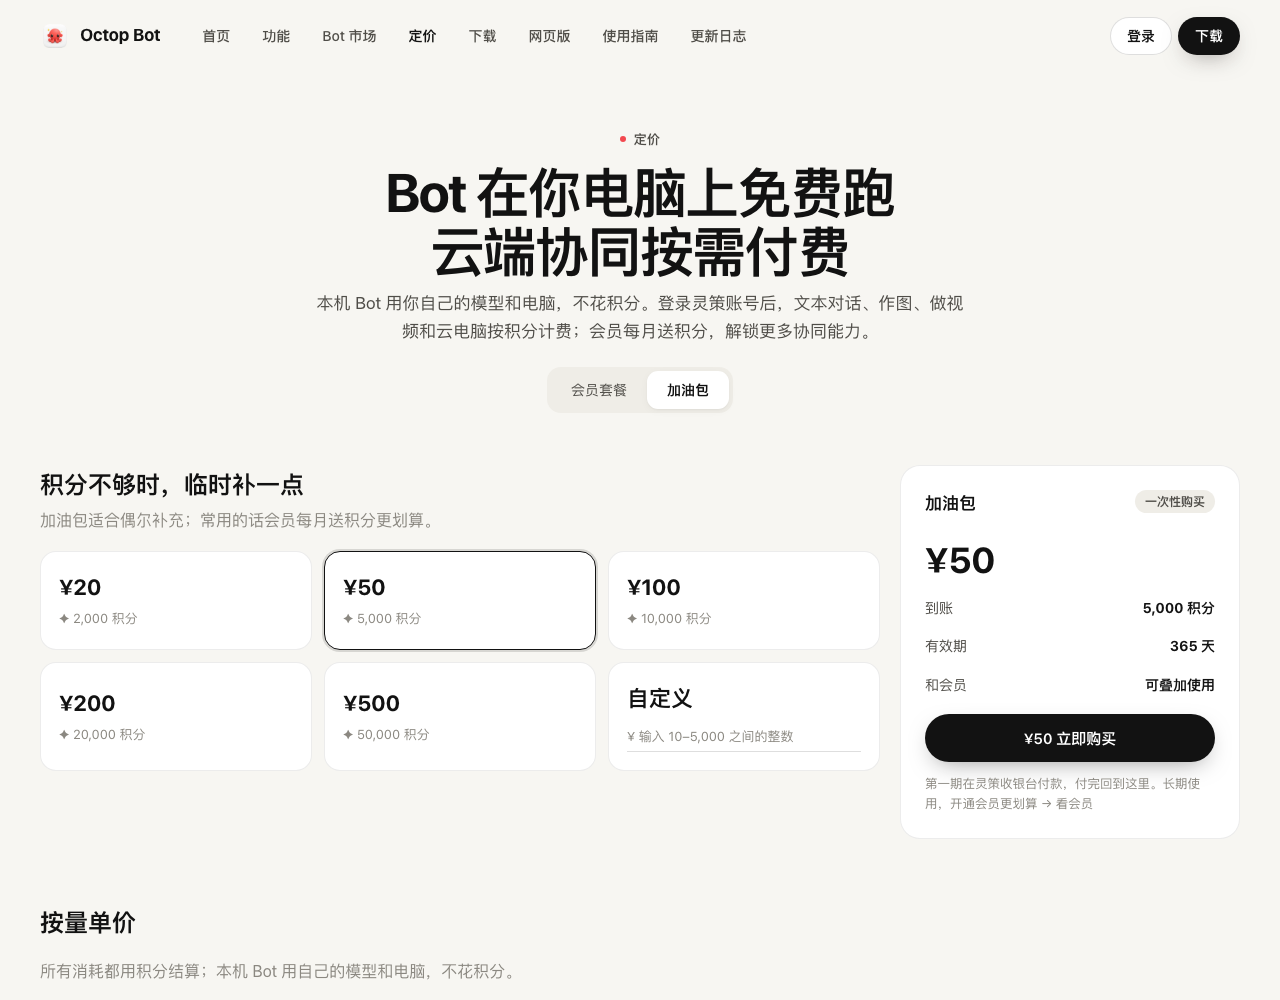
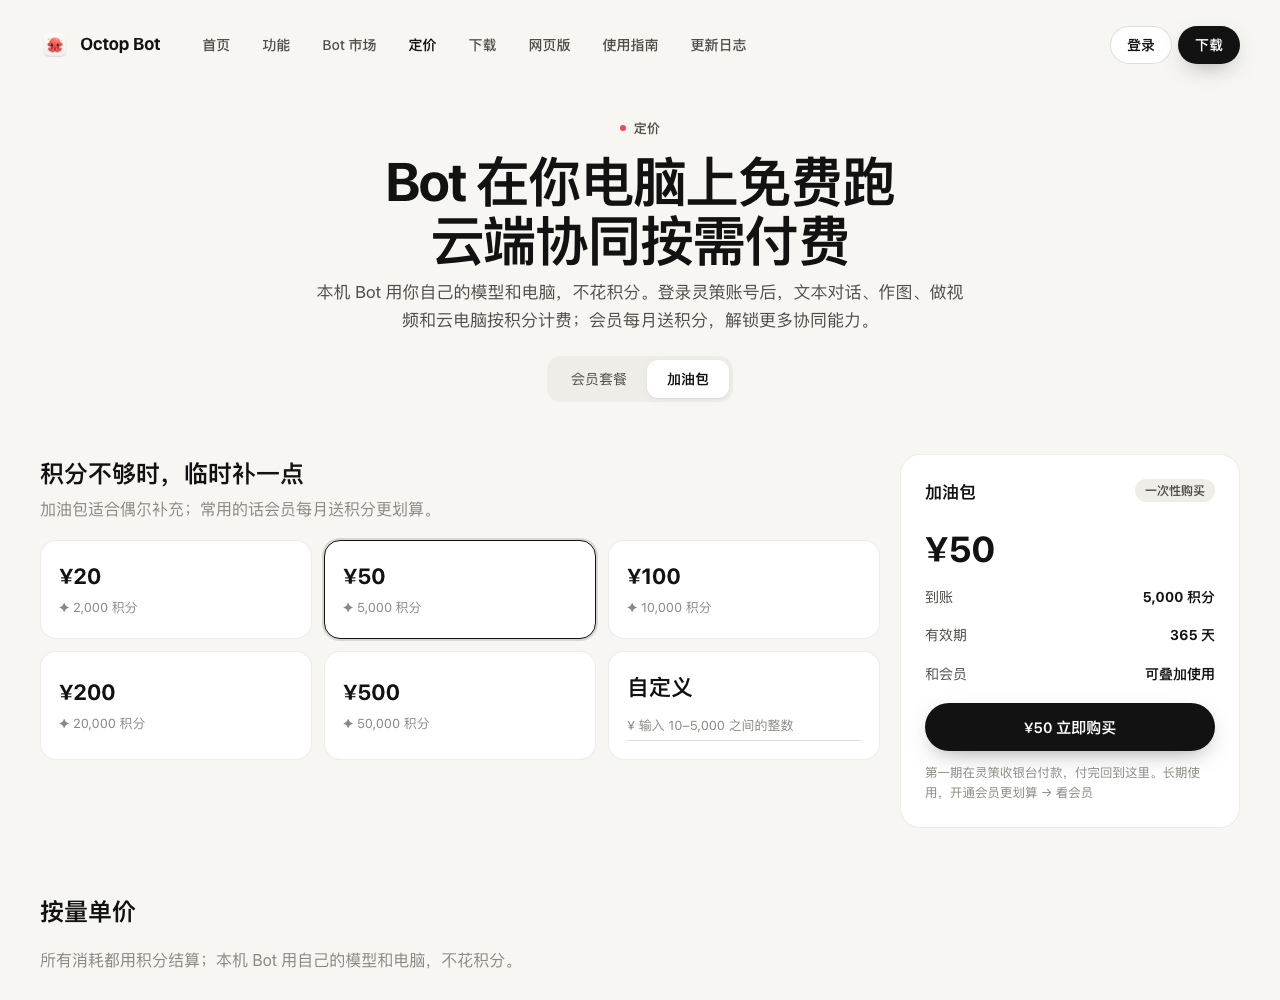
docs(bot): widen the membership cards on the pricing prototype
The five plans now span up to 1440px instead of the page column, so each
card has room for its benefits and most lines fit on one row.

diff --git a/docs/assets/octop-bot-saas-billing/prototype.html b/docs/assets/octop-bot-saas-billing/prototype.html
@@ -142,6 +142,10 @@
   .small { font-size: 12.5px; }
   .plan { padding: 20px 16px; }
   .plan .renew { font-size: 12px; color: var(--ink-3); margin-top: -6px; }
+  /* The five plans break out of the page column so each card has room for its benefits. */
+  #v-plans .plans { width: min(calc(100vw - 48px), 1440px); position: relative; left: 50%; transform: translateX(-50%); gap: 16px; }
+  #v-plans .plan { padding: 24px 22px; }
+  #v-plans .plan ul.perks li { grid-template-columns: 64px 1fr; }
   .plan .credits { min-height: 102px; }
   .plan .btn { margin-top: 0; }
   .plan .credits .row { display: flex; justify-content: space-between; gap: 6px; align-items: baseline; }
